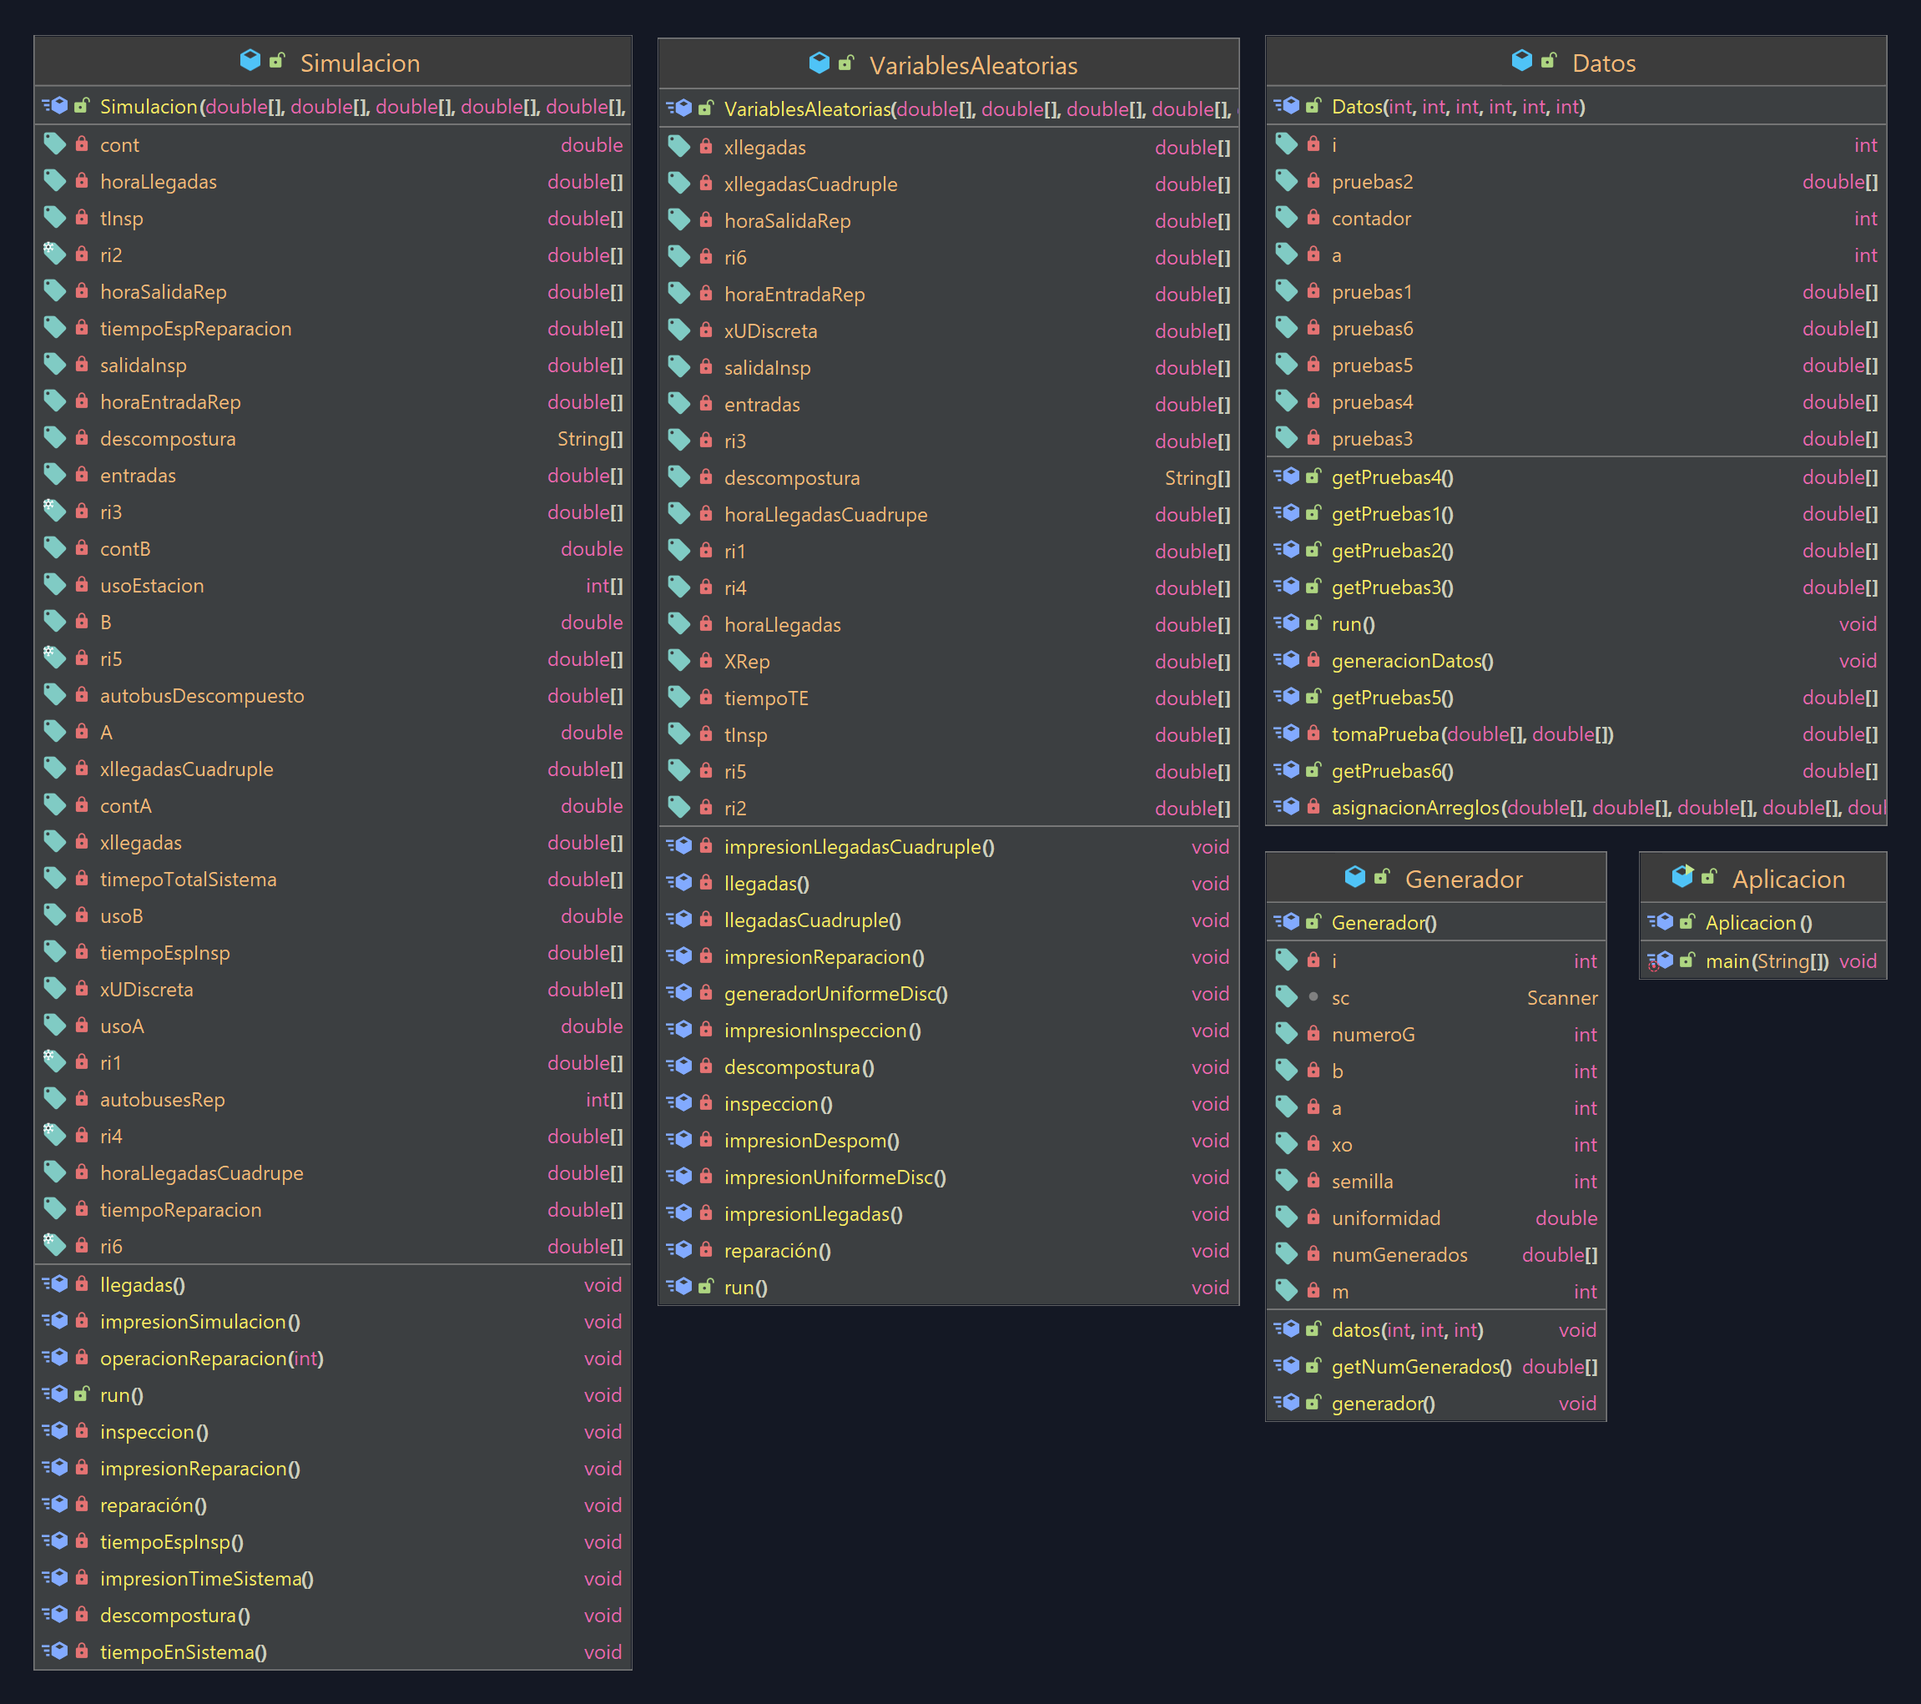
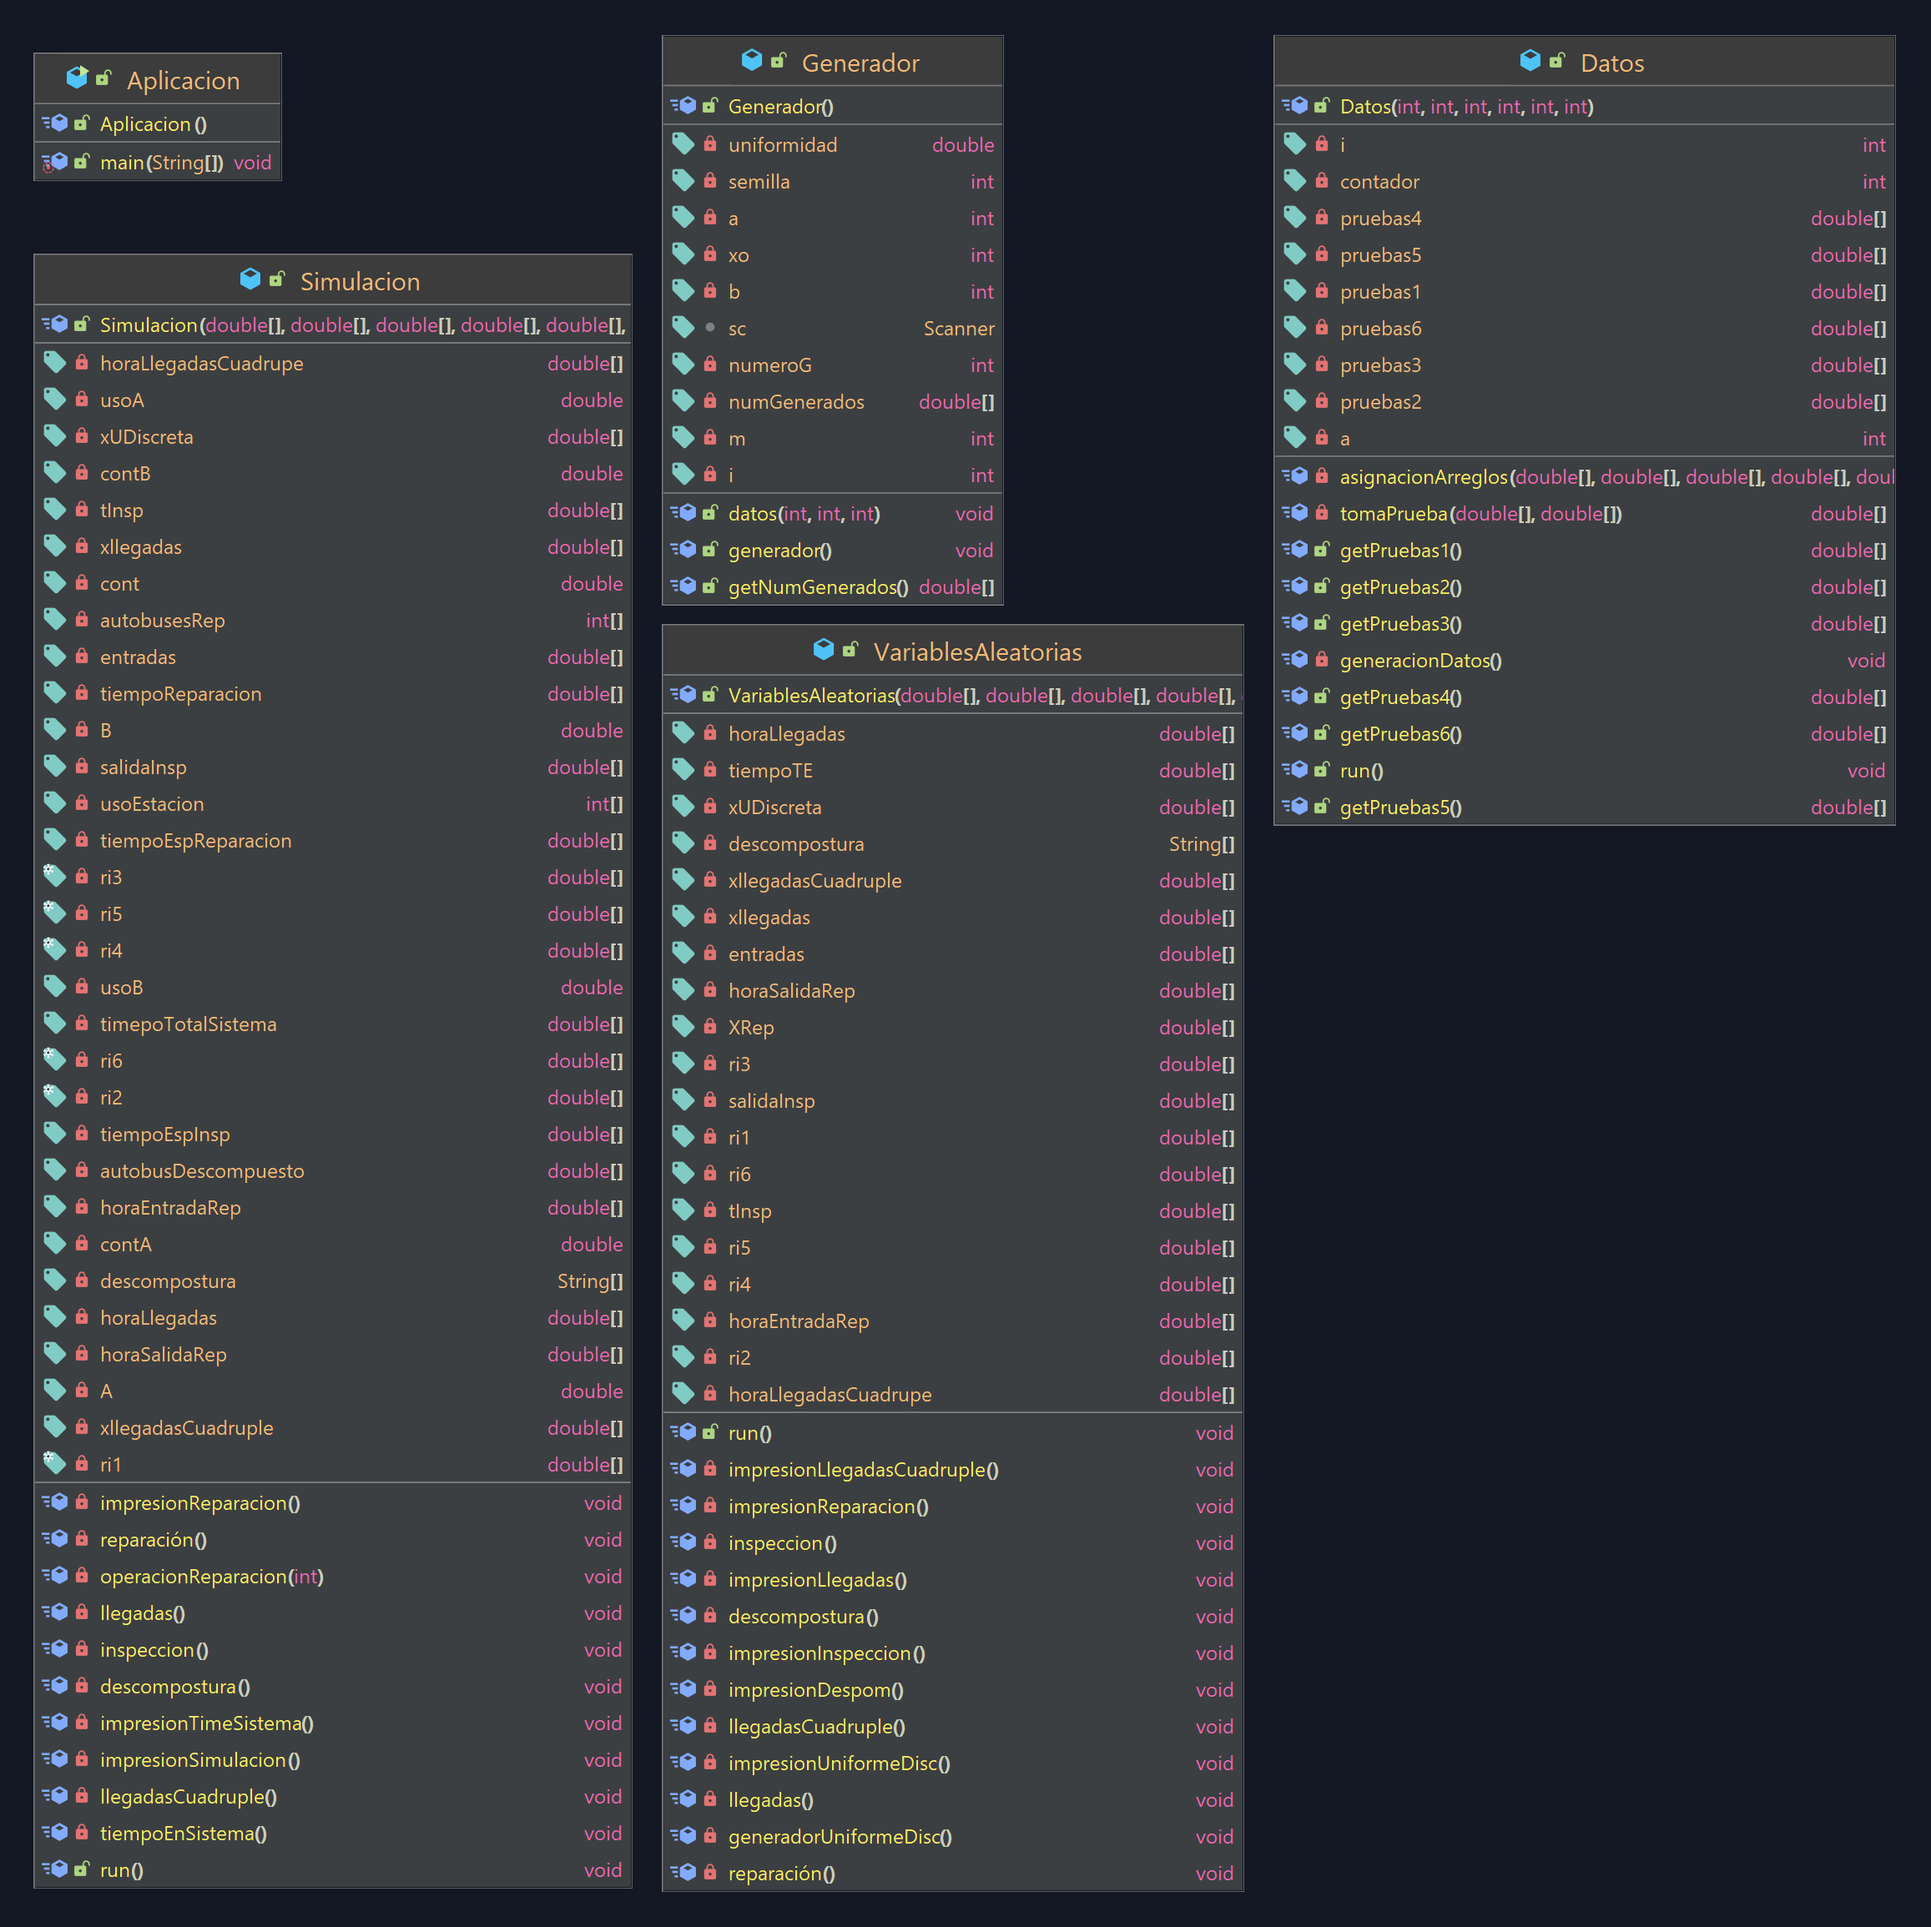
update

diff --git a/src/Simulacion.java b/src/Simulacion.java
@@ -56,7 +56,8 @@ public class Simulacion {
 
     // llamamos a los metodos que vamos a usar
     public void run() {
-        llegadas();
+        // llegadas();
+        llegadasCuadruple();
         inspeccion();
         // tiempoEspInsp();
         descompostura();
@@ -98,7 +99,6 @@ public class Simulacion {
 
         while (i < ri1.length) {
             xllegadasCuadruple[i] = -0.5 * Math.log(ri1[i]);
-
             // Vamos sumando el anterior
             if (i == 0) {
                 horaLlegadasCuadrupe[i] = xllegadasCuadruple[i];
@@ -330,10 +330,14 @@ public class Simulacion {
         System.out.println(" ");
         int i = 0;
         while (i < ri1.length) {
+            // // Impresiones llegadas
+            // System.out.print(
+            //         String.format("%d", (i + 1)) + String.format("%15f", ri1[i]) + String.format("%14f", xllegadas[i])
+            //                 + String.format("%15f", horaLlegadas[i]));
             // Impresiones llegadas
             System.out.print(
-                    String.format("%d", (i + 1)) + String.format("%15f", ri1[i]) + String.format("%14f", xllegadas[i])
-                            + String.format("%15f", horaLlegadas[i]));
+                    String.format("%d", (i + 1)) + String.format("%15f", ri1[i]) + String.format("%14f", xllegadasCuadruple[i])
+                            + String.format("%15f", horaLlegadasCuadrupe[i]));
 
             System.out.print(" | ");
             // Impresion Inspeccion
